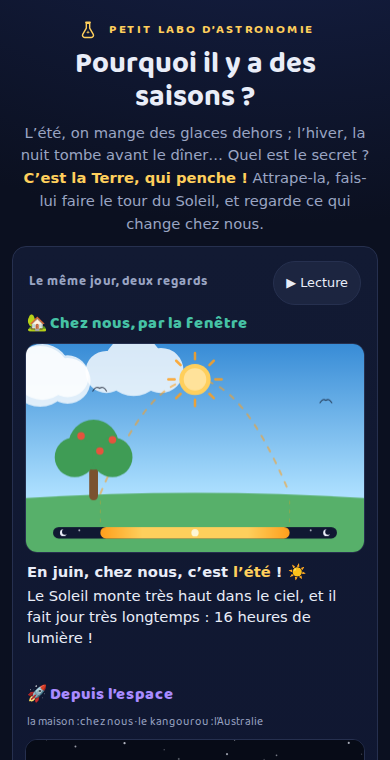
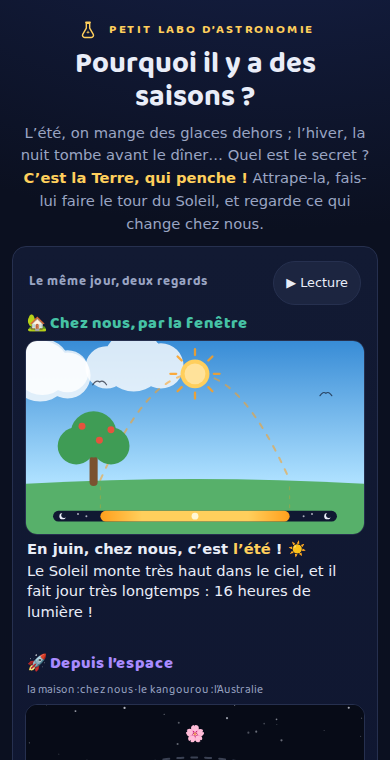
fix: mobile plus serré (tout sur un écran) et remontée qui garde le bouton
- Mobile : les deux vues ET leurs deux phrases tiennent en ~685 px
  (canvas compactés, gap 8 px, interligne 1,38, réserve de phrase
  re-mesurée à 7,05 em sur le balayage de l'année, pire cas jour 121).
- Ordi : la remontée d'écran des scénarios s'arrête à la position la plus
  basse qui montre les vues — la rangée des boutons reste toujours
  visible, on voit ce qu'on vient de presser.

Claude-Session: https://claude.ai/code/session_018g4iGsVy9rHqQjnC3SGe4X

diff --git a/css/style.css b/css/style.css
@@ -459,16 +459,20 @@ button:focus-visible, input:focus-visible, a:focus-visible {
      appui-saison, fenêtre ET espace se partagent le viewport du téléphone.
      Hauteurs EXPLICITES, jamais aspect-ratio + max-height (WebKit réduirait
      la largeur de la boîte). */
-  /* les DEUX vues et la phrase de la fenêtre tiennent dans un écran de
-     téléphone (~715 px visibles) : mesuré, du titre de la fenêtre au bas
-     du canvas de l'espace, ~660 px */
-  .grille-vues .ratio-fenetre { aspect-ratio: auto; height: min(54vw, 28vh); }
-  .grille-vues .ratio-espace { aspect-ratio: auto; height: min(62vw, 33vh); }
+  /* les DEUX vues et leurs deux phrases tiennent dans un écran de
+     téléphone (~715 px visibles) : hauteurs, marges et interlignes serrés,
+     mesurés au script */
+  .grille-vues { gap: 8px; }
+  .grille-vues .ratio-fenetre { aspect-ratio: auto; height: min(50vw, 26vh); }
+  .grille-vues .ratio-espace { aspect-ratio: auto; height: min(58vw, 31vh); }
+  .entete-vue { margin-bottom: 4px; }
+  .phrase-vue { margin-top: 4px; line-height: 1.38; }
 
-  /* la place du PIRE cas (titre 2 lignes + commentaire 3 lignes, mesuré :
-     7,4 em au jour 120) est réservée : le nombre de lignes de la phrase ne
-     fait plus jamais sauter la page (retour test iPhone) */
-  #phrase-moment { min-height: 7.4em; }
+  /* la place du PIRE cas (titre 2 lignes + commentaire 3 lignes — re-mesuré
+     au jour 121 : 7,0 em avec l'interligne serré) est réservée : le nombre
+     de lignes de la phrase ne fait plus jamais sauter la page (retour test
+     iPhone) */
+  #phrase-moment { min-height: 7.05em; }
 
   .boutons-scenarios { grid-template-columns: 1fr 1fr; }
   .scn { min-height: 64px; }

diff --git a/js/main.js b/js/main.js
@@ -275,7 +275,20 @@ function jouerScenario(scn) {
       }
     }
   } else if (cadre.bottom < 120 || cadre.top > window.innerHeight - 120) {
-    $('panneau-scene').scrollIntoView(mouvementReduit ? true : { behavior: 'smooth', block: 'start' });
+    /* Remonter juste assez pour voir les vues, SANS perdre de vue le bouton
+     * qu'on vient de presser (retour utilisateur) : entre « les vues en haut
+     * de l'écran » et « la rangée des boutons encore visible en bas », on
+     * choisit la position la plus basse — le bouton reste toujours là. */
+    var scene = $('panneau-scene').getBoundingClientRect();
+    var rangBoutons = document.querySelector('.boutons-scenarios').getBoundingClientRect();
+    var cibleVues = window.scrollY + scene.top - 8;
+    var cibleBoutons = window.scrollY + rangBoutons.bottom - window.innerHeight + 16;
+    var cibleScene = Math.max(0, Math.max(cibleVues, cibleBoutons));
+    if (!mouvementReduit && 'scrollBehavior' in document.documentElement.style) {
+      window.scrollTo({ top: cibleScene, behavior: 'smooth' });
+    } else {
+      window.scrollTo(0, cibleScene);
+    }
   }
   var delta = jourNormalise(scn.jour - etat.jour);
   if (mouvementReduit || delta < 0.25 || delta > ANNEE_JOURS - 0.25) {

diff --git a/CLAUDE.md b/CLAUDE.md
@@ -236,11 +236,18 @@ Vérités verrouillées par `test/model.test.mjs` (à compléter, jamais supprim
 - **Le seuil mobile UNIQUE de l'épisode : 880 px.** La grille CSS, le
   médaillon, le repli de la boîte d'explication et la vue unique du jeu lisent
   tous ce chiffre.
-- **Sur mobile, les DEUX vues tiennent dans un écran de téléphone**
-  (retour utilisateur : l'espace était sous la ligne de flottaison) : du
-  titre de la fenêtre au bas du canvas de l'espace, ~660 px pour ~715 px
-  visibles sur iPhone — hauteurs `min(54vw, 28vh)` (fenêtre) et
-  `min(62vw, 33vh)` (espace), mesurées par script avant tout réglage.
+- **Sur mobile, les DEUX vues et leurs DEUX phrases tiennent dans un
+  écran de téléphone** (retour utilisateur, resserré deux fois) : du titre
+  de la fenêtre au bas de la phrase de l'espace, ~685 px pour ~715 px
+  visibles sur iPhone — hauteurs `min(50vw, 26vh)` (fenêtre) et
+  `min(58vw, 31vh)` (espace), gap 8 px, interligne 1,38, réserve de la
+  phrase re-mesurée à 7,05 em (pire cas : jour 121). Toujours MESURER au
+  script (balayage de l'année) avant de régler ces chiffres.
+- **La remontée d'écran des scénarios ne cache jamais le bouton pressé**
+  (retour utilisateur) : quand les vues sont hors écran, on remonte à la
+  position la plus BASSE entre « vues en haut d'écran » et « rangée des
+  boutons encore visible en bas » — l'enfant voit glisser l'année ET le
+  bouton qu'il vient de choisir.
 - **Sur mobile (< 880 px) seulement** : un médaillon flottant (haut droit,
   hors du chemin du pouce) montre la fenêtre de chez nous en miniature dès
   qu'elle sort de l'écran — un tap y ramène. Le jeu n'affiche qu'une vue
